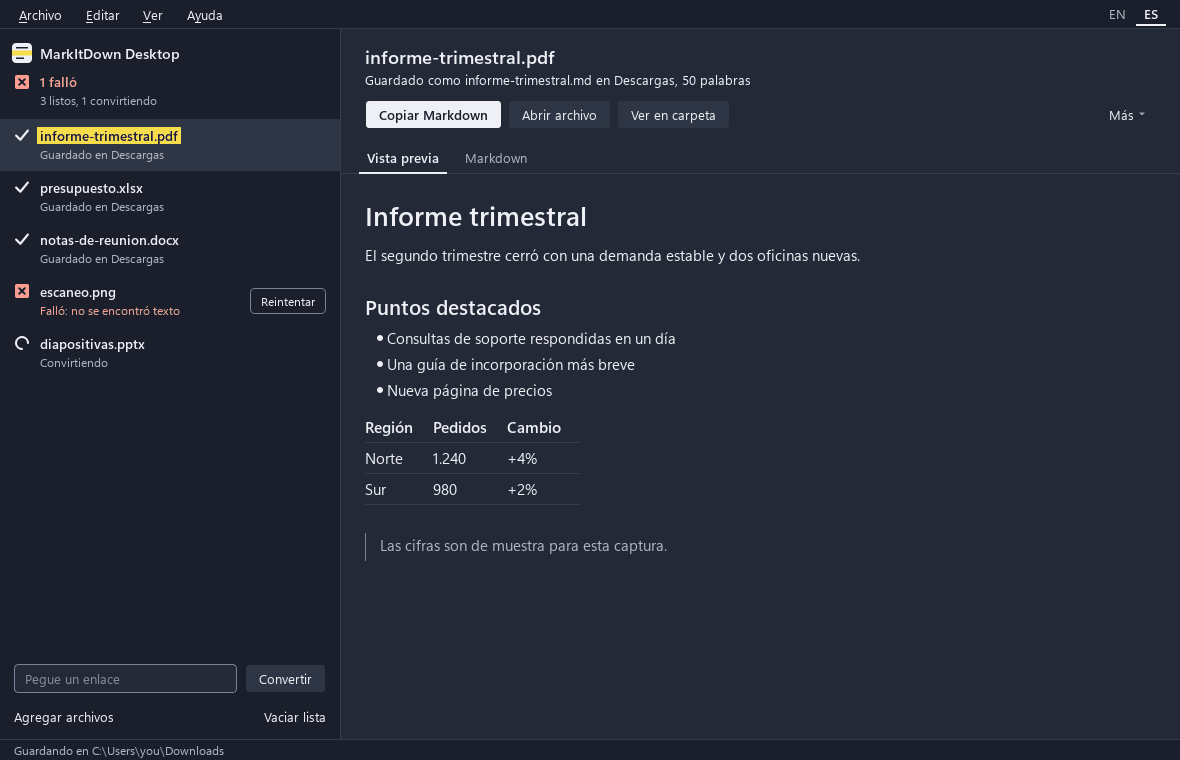
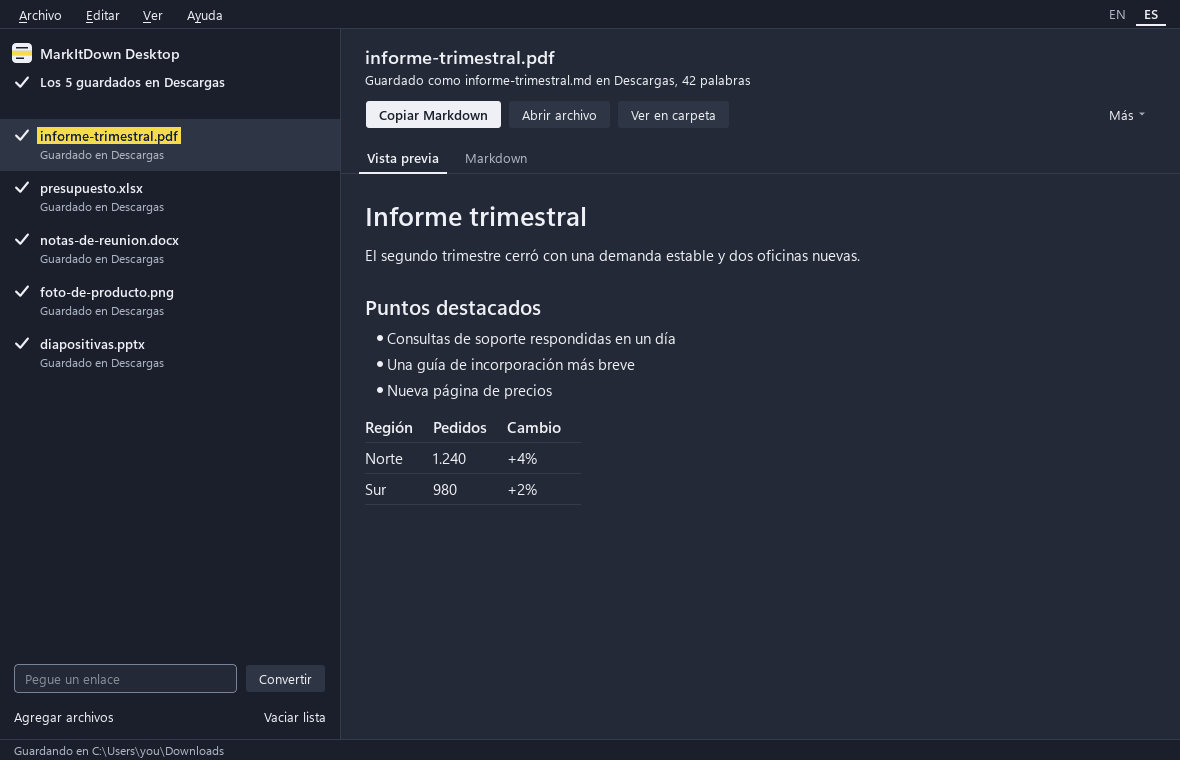
docs: show only saved files in the app screenshots

diff --git a/docs/index.html b/docs/index.html
@@ -220,7 +220,7 @@
   <div class="desk">
     <div class="column">
       <div class="window">
-        <img data-shot="app" src="screenshots/app-light-en.png" width="1180" height="760" alt="MarkItDown Desktop with five files in its list: three saved to Downloads, one failed with the reason no text found and a Retry button, one converting. The selected file's Markdown is rendered beside the list." data-i18n-alt="shot.app.alt">
+        <img data-shot="app" src="screenshots/app-light-en.png" width="1180" height="760" alt="MarkItDown Desktop with five files in its list, all saved to Downloads. The selected file's Markdown is rendered beside the list." data-i18n-alt="shot.app.alt">
       </div>
     </div>
   </div>
@@ -343,7 +343,7 @@ python3 -m pip install -r requirements.txt
       "cta.windows": "Download for Windows (.exe)",
       "cta.other": "macOS and Linux",
       "cta.note": "Unofficial, open-source, not affiliated with Microsoft.",
-      "shot.app.alt": "MarkItDown Desktop with five files in its list: three saved to Downloads, one failed with the reason no text found and a Retry button, one converting. The selected file's Markdown is rendered beside the list.",
+      "shot.app.alt": "MarkItDown Desktop with five files in its list, all saved to Downloads. The selected file's Markdown is rendered beside the list.",
       "shot.empty.alt": "The empty window: a highlighted instruction to drop a document anywhere, Add files and Add folder buttons, and a field to paste a link.",
       "how.title": "How it works",
       "how.1.title": "Add something",
@@ -399,7 +399,7 @@ python3 -m pip install -r requirements.txt
       "cta.windows": "Descargar para Windows (.exe)",
       "cta.other": "macOS y Linux",
       "cta.note": "No oficial, de código abierto, sin afiliación con Microsoft.",
-      "shot.app.alt": "MarkItDown Desktop con cinco archivos en su lista: tres guardados en Descargas, uno fallido con el motivo no se encontró texto y un botón Reintentar, y uno convirtiéndose. El Markdown del archivo seleccionado se muestra junto a la lista.",
+      "shot.app.alt": "MarkItDown Desktop con cinco archivos en su lista, todos guardados en Descargas. El Markdown del archivo seleccionado se muestra junto a la lista.",
       "shot.empty.alt": "La ventana vacía: una instrucción resaltada para soltar un documento en cualquier parte, los botones Agregar archivos y Agregar carpeta, y un campo para pegar un enlace.",
       "how.title": "Cómo funciona",
       "how.1.title": "Agregue algo",

diff --git a/README.md b/README.md
@@ -21,7 +21,7 @@ manual "export" step required.
 
 <picture>
   <source media="(prefers-color-scheme: dark)" srcset="docs/screenshots/app-dark-en.png">
-  <img alt="MarkItDown Desktop with five files in its list: three saved to Downloads, one that failed with the reason no text found and a Retry button, one converting. The selected file's Markdown is rendered beside the list." src="docs/screenshots/app-light-en.png">
+  <img alt="MarkItDown Desktop with five files in its list, all saved to Downloads. The selected file's Markdown is rendered beside the list." src="docs/screenshots/app-light-en.png">
 </picture>
 
 **[🌐 Website](https://andrest04.github.io/markitdown-desktop/)** ·
